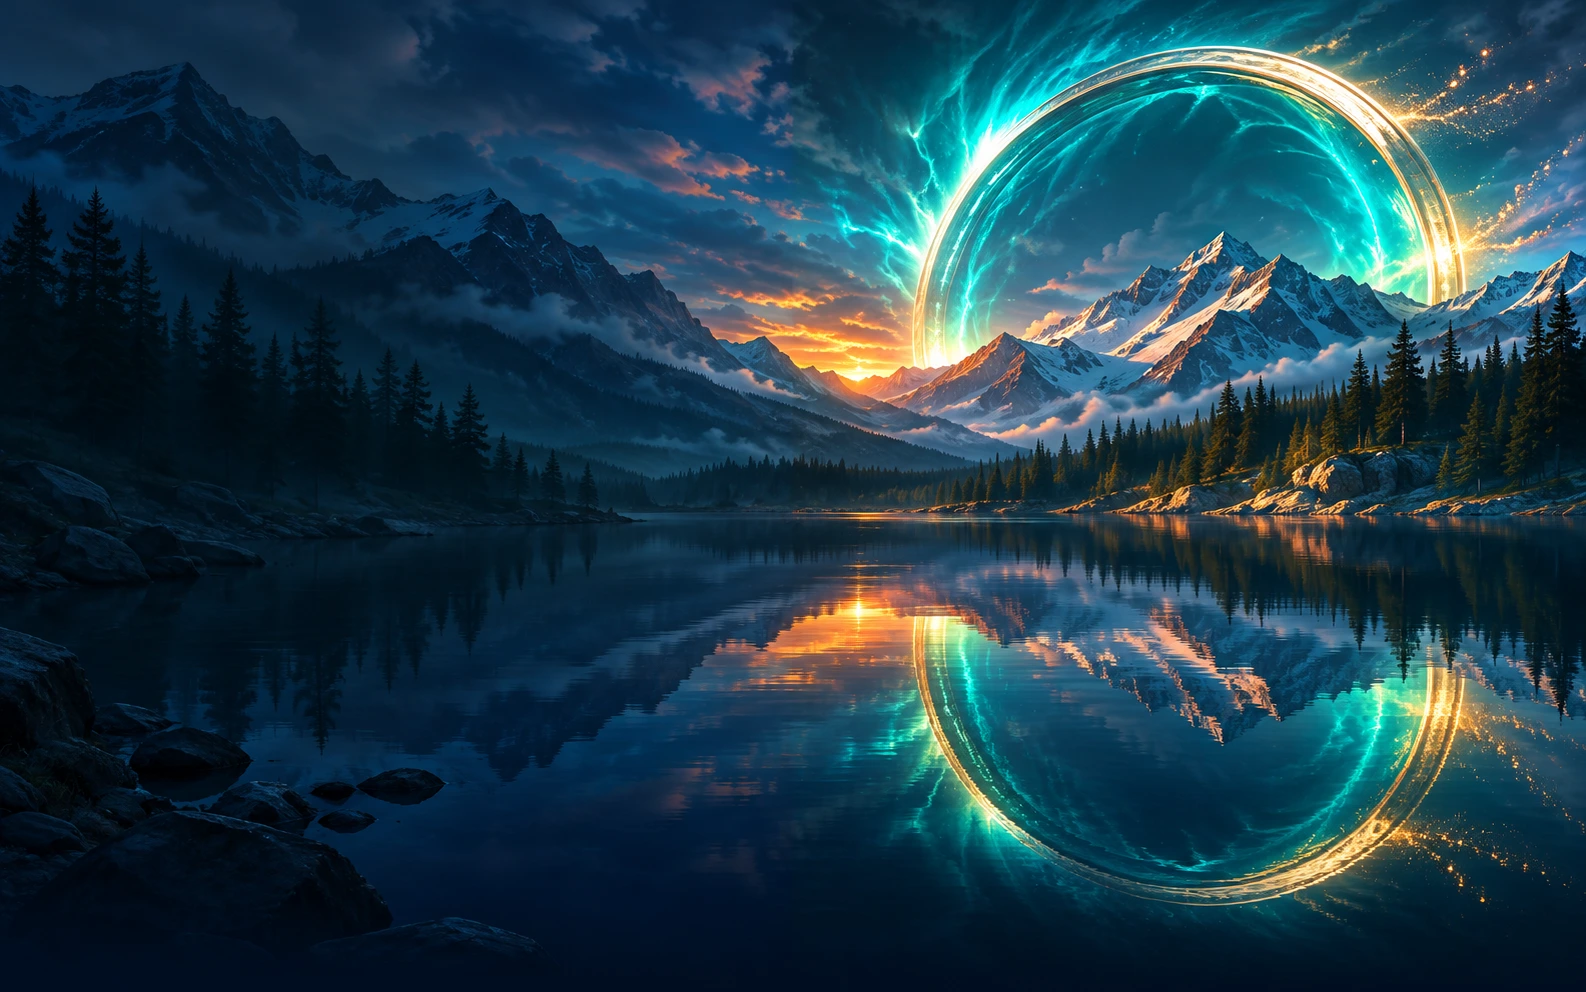
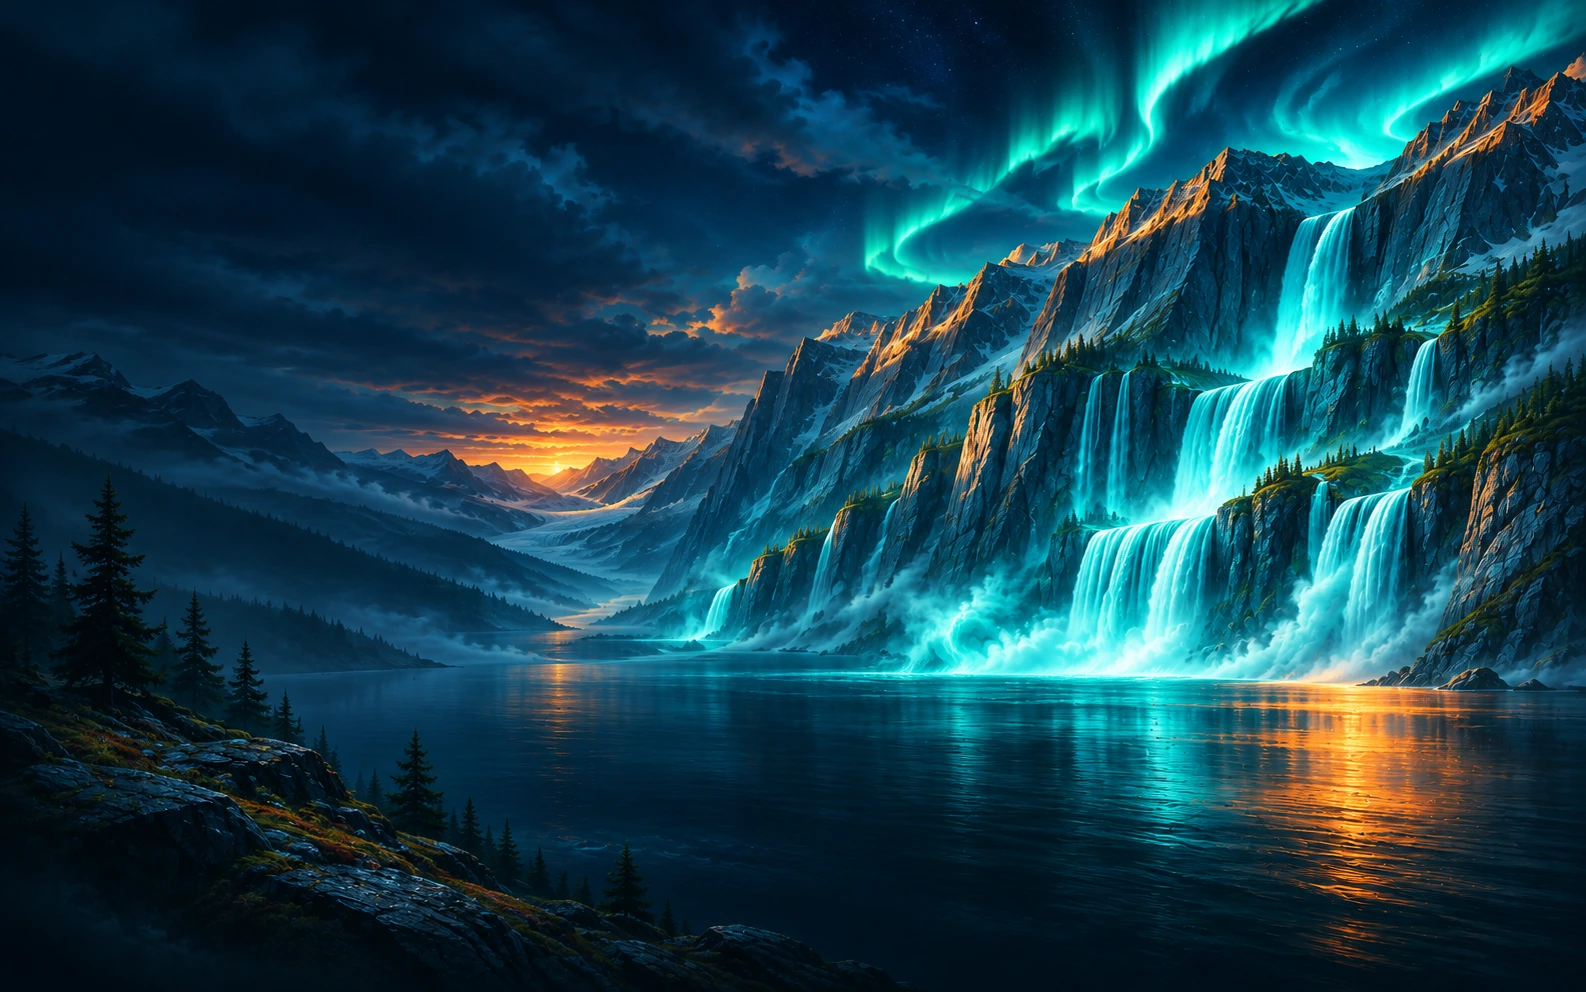
Expand period recap metrics and add waterfall artwork

diff --git a/app.js b/app.js
@@ -1626,6 +1626,39 @@ function redrawStatsHours() {
   startStatsMotion(sectionDialog.querySelector('.stats-time-chart'),'chart-enter');
 }
 
+function periodRecapMetrics(mode, daily, total, gameCount, achievements, from, to) {
+  const metrics = [
+    ['Игровых дней',numeric(daily.size)],
+    ['Получено достижений',numeric(achievements.length)]
+  ];
+  if (mode === 'weeks') return metrics;
+  metrics.push(
+    ['Игр запущено',numeric(gameCount)],
+    ['В среднем за игровой день',sessionDuration(total/daily.size)]
+  );
+  if (mode === 'months') return metrics;
+
+  const [bestDay,bestMinutes] = [...daily].sort(([dayA,minutesA],[dayB,minutesB])=>
+    minutesB-minutesA || dayB-dayA)[0];
+  const months = new Set([...daily.keys()].map(day=>statsPeriodKey(day,'months')));
+  const perfect = games().filter(game => {
+    if (game.hidden) return false;
+    const record = summaryFor(game);
+    if (trophyFor(record) !== 'platinum') return false;
+    const unlocked = recentUnlocks(record);
+    if (unlocked.length !== record.total || !unlocked.every(item=>item.time > 0)) return false;
+    const finish = dayNumber(unlocked[0].time*1000);
+    return finish >= from && finish < to && unlocked[0].time*1000 <= Date.now();
+  }).length;
+  return [...metrics,
+    ['Активных месяцев',numeric(months.size)],
+    ['Самый игровой день',sessionDuration(bestMinutes),shortDay.format(calendarDate(bestDay))],
+    ['Лучшая серия игровых дней',numeric(streaks(daily,to-1,from).best)+' дн.'],
+    ['Редких достижений',numeric(achievements.filter(({item})=>isRare(item)).length)],
+    ['Игр на «Идеально»',numeric(perfect)]
+  ];
+}
+
 function openStatsPeriod(control) {
   const mode = statsTimeMode;
   const key = Number(control.dataset.period);
@@ -1637,18 +1670,20 @@ function openStatsPeriod(control) {
   const ranked = sessionRank(events);
   const leader = ranked[0];
   if (!leader) return;
-  const total = events.reduce((sum,event)=>sum+event.minutes,0);
-  const days = new Set(events.map(event=>event.day)).size;
+  const daily = new Map();
+  for (const {day,minutes} of events) addDaily(daily,day,minutes);
+  const total = [...daily.values()].reduce((sum,minutes)=>sum+minutes,0);
   const now = Date.now();
   const achievements = achievementEntries().filter(({item})=>item.unlocked && item.time > 0 &&
     item.time*1000 <= now && inPeriod(dayNumber(item.time*1000)));
   const rarest = achievements.filter(({item})=>Number.isFinite(item.percent))
     .sort((a,b)=>a.item.percent-b.item.percent || b.item.time-a.item.time)[0];
+  const metrics = periodRecapMetrics(mode,daily,total,ranked.length,achievements,from,to);
   const unit = {weeks:'недели',months:'месяца',years:'года'}[mode];
   control.focus({preventScroll:true});
   dialog.className = 'period-recap-dialog';
   dialog.innerHTML = [
-    '<div class="period-recap-inner">',
+    '<div class="period-recap-inner" data-recap-period="'+mode+'">',
     '<div class="period-recap-art" aria-hidden="true"></div><div class="period-recap-light" aria-hidden="true"></div>',
     '<div class="period-recap-close">'+iconButton('close-dialog','Закрыть','x')+'</div>',
     '<header class="period-recap-header"><p class="period-recap-date">'+esc(statsPeriodLabel(key,mode))+'</p>',
@@ -1656,9 +1691,10 @@ function openStatsPeriod(control) {
     '<strong class="period-recap-total">'+esc(sessionDuration(total))+'</strong>',
     '<p class="period-recap-caption">Игровое время · по записанным сессиям</p></header>',
     '<dl class="period-recap-metrics">',
-    '<div><dt>Игровых дней</dt><dd>'+numeric(days)+'</dd></div>',
-    '<div><dt>Игр запущено</dt><dd>'+numeric(ranked.length)+'</dd></div>',
-    '<div><dt>Получено достижений</dt><dd>'+numeric(achievements.length)+'</dd></div></dl>',
+    metrics.map(([label,value,detail],index)=>
+      '<div style="--recap-delay:'+(760+index*73)+'ms"><dt>'+esc(label)+'</dt><dd>'+esc(value)+'</dd>'+
+      (detail ? '<dd class="period-recap-metric-detail">'+esc(detail)+'</dd>' : '')+'</div>'
+    ).join('')+'</dl>',
     '<div class="period-recap-highlights"><section><h3>Игра '+unit+'</h3>',
     '<a class="period-recap-feature" href="'+gameHref(leader.game)+'">'+cover(leader.game,'',{detailed:true})+
       '<span><strong>'+esc(displayName(leader.game))+'</strong><small>'+esc(sessionDuration(leader.minutes))+'</small></span></a></section>',

diff --git a/styles.css b/styles.css
@@ -2116,11 +2116,19 @@ dialog.period-recap-dialog:not(.boss-map-panel){
 .period-recap-total{display:block;color:#bdf1ff;text-shadow:0 0 31px #50cdf448;font-size:clamp(2.65rem,7.4vw,6.25rem);font-variant-numeric:tabular-nums}
 .period-recap-caption{margin:10px 0 0;color:#c5d7e3;font-size:clamp(.85rem,1.5vw,1.08rem)}
 .period-recap-metrics,.period-recap-highlights{display:grid;margin-inline:clamp(23px,5vw,60px)}
-.period-recap-metrics{grid-template-columns:repeat(3,minmax(0,1fr));text-align:center;padding:18px 0;border-block:1px solid #85cde455}
+.period-recap-metrics{grid-template-columns:repeat(2,minmax(0,1fr));text-align:center;padding:18px 0;border-block:1px solid #85cde455}
+[data-recap-period=months] .period-recap-metrics{grid-template-columns:repeat(4,minmax(0,1fr))}
+[data-recap-period=years] .period-recap-metrics{grid-template-columns:repeat(3,minmax(0,1fr));padding:0}
 .period-recap-metrics>div{display:flex;flex-direction:column;justify-content:center;padding-inline:6px}
 .period-recap-metrics>div+div,.period-recap-highlights>section+section{border-left:1px solid #85cde455}
+[data-recap-period=years] .period-recap-header{min-height:280px}
+[data-recap-period=years] .period-recap-metrics>div{min-height:76px;padding:10px 6px;background:#0314204d}
+[data-recap-period=years] .period-recap-metrics>div:nth-child(3n+1){border-left:0}
+[data-recap-period=years] .period-recap-metrics>div:nth-child(n+4){border-top:1px solid #85cde455}
 .period-recap-metrics dd{order:-1;font-size:clamp(1.72rem,4.25vw,3.4rem);font-weight:800;line-height:1;letter-spacing:-.04em;font-variant-numeric:tabular-nums}
+[data-recap-period=years] .period-recap-metrics dd:not(.period-recap-metric-detail){font-size:clamp(1.25rem,2.75vw,2.5rem)}
 .period-recap-metrics dt{margin-top:7px;color:#d8e7ee;font-size:clamp(.75rem,1.5vw,1rem);line-height:1.25}
+.period-recap-metrics .period-recap-metric-detail{order:0;margin-top:4px;font-size:.78rem;letter-spacing:0;color:#b4d3e2}
 .period-recap-highlights{grid-template-columns:1fr 1fr;margin-block:24px 32px}
 .period-recap-highlights section{min-width:0;padding-right:14px}
 .period-recap-highlights section+section{padding-inline:clamp(12px,3vw,33px) 0}
@@ -2155,10 +2163,7 @@ dialog.period-recap-dialog:not(.boss-map-panel){
   }
   .period-recap-header h2{--recap-delay:.28s}
   .period-recap-total,.period-recap-header .period-recap-caption{--recap-delay:.44s}
-  .period-recap-metrics>div:nth-child(1){--recap-delay:.77s}
-  .period-recap-metrics>div:nth-child(2){--recap-delay:.99s}
-  .period-recap-metrics>div:nth-child(3){--recap-delay:1.21s}
-  .period-recap-highlights>section:first-child{--recap-delay:1.4s}
+  .period-recap-highlights>section:first-child{--recap-delay:1.45s}
   .period-recap-highlights>section:last-child{--recap-delay:1.6s}
   .route-enter .desk-game-heading,.route-enter .desk-game-crumb,.route-enter .desk-game-body,
   .route-enter .boss-tracker-heading,.route-enter .boss-sidebar,.route-enter .boss-region{

diff --git a/activity-view.js b/activity-view.js
@@ -11,8 +11,8 @@ export function addDaily(days, day, amount) {
   days.set(day, (days.get(day) ?? 0) + amount);
 }
 
-export function streaks(days, today) {
-  const active = [...days.keys()].filter(day => day >= today - 364 && day <= today).sort((a,b) => a - b);
+export function streaks(days, today, start = today - 364) {
+  const active = [...days.keys()].filter(day => day >= start && day <= today).sort((a,b) => a - b);
   let best = 0, run = 0, previous = -Infinity;
   for (const day of active) {
     run = day === previous + 1 ? run + 1 : 1;

diff --git a/sw.js b/sw.js
@@ -1,5 +1,5 @@
 // Bump this version whenever a file in the precache changes.
-const CACHE_VERSION = 70;
+const CACHE_VERSION = 71;
 const scope = new URL(self.registration.scope);
 const cachePrefix = `aftersave::${scope.href}::v`;
 const cacheName = `${cachePrefix}${CACHE_VERSION}`;
